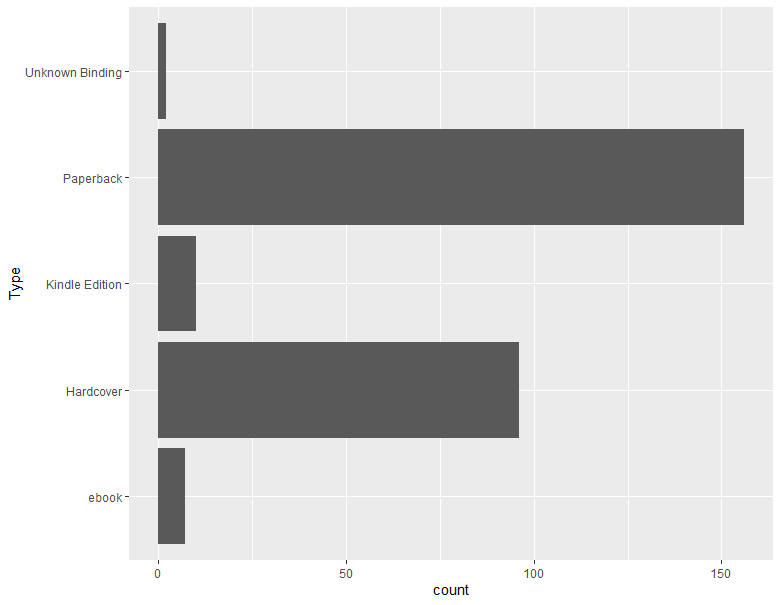
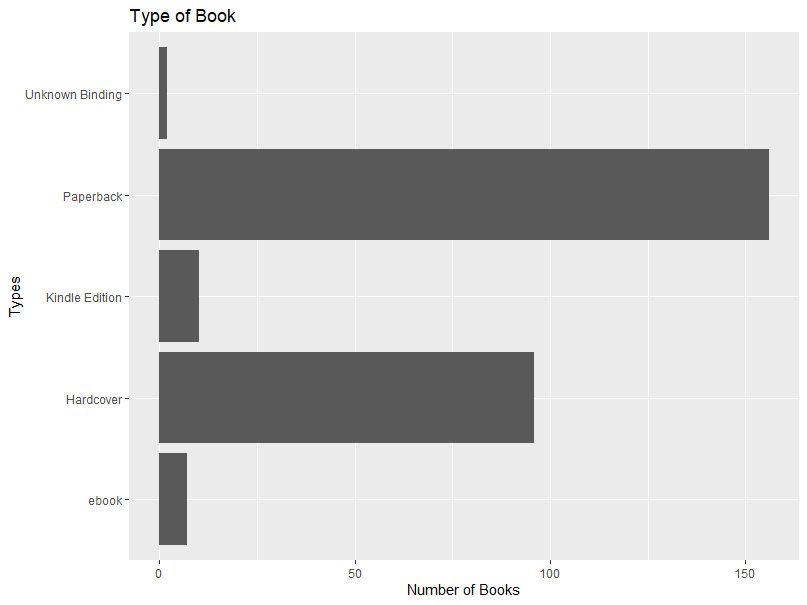
mid

diff --git a/HW04_63130500075.md b/HW04_63130500075.md
@@ -52,7 +52,7 @@ $ Price           <dbl> 9.323529, 11.000000, 11.267647, 12.873529, 13.164706, 14
 
 | No. | Column Name | Column Details | Data Type |
 | ---- | ---- | ---- | ---- |
-|1|Rating|Book popularity rating|numeric|
+|1|Rating|Rating of the book|numeric|
 |2|Reviews|Number of reviews on this book|numeric|
 |3|Book_title|Name of the book|character| 
 |4|Description|Description of the book|character| 
@@ -364,9 +364,9 @@ Explain
 ### 1.) Graph show type of book
 ```R
 # Bar Chart
-ggplot(Books,aes(x = Type)) + geom_bar() 
-type_plot <- ggplot(Books,aes(x = Type)) + geom_bar() + coord_flip()
-type_plot + ggtitle("Type of Book") + xlab("Types") + ylab("Number of Books")
+ggplot(Books,aes(x = Type)) + geom_bar()
+type_plot <- ggplot(Books,aes(x = Type)) + geom_bar() + coord_flip() + 
+             ggtitle("Type of Book") + xlab("Types") + ylab("Number of Books")
 type_plot
 ```
 Result:
@@ -376,19 +376,28 @@ Result:
 ### 2.) Graph show relation between price and rating
 ```R
 ## Scatter Plot
-Books %>% filter(Price < 250)
-Books %>% ggplot(aes(x = Rating,y = Price)) + geom_point()
 Books %>% filter(Price < 250) %>% ggplot(aes(x = Rating,y = Price)) + geom_point()
 ratingPrice_plot <- Books %>% filter(Price < 250) %>% ggplot(aes(x = Rating,y = Price)) + 
-                    geom_point(aes(color=Type)) + 
-                    ggtitle("Relation Between Price and Rating")
+                    geom_point(aes(color=Type)) + ggtitle("Relation Between Price and Rating")
 ratingPrice_plot
 ratingPrice_plot + geom_smooth()
-ratingPrice_plot + geom_smooth(method="lm")
+ratingPrice_plot + geom_smooth(method="lm") + theme_minimal() + 
+                   theme(panel.grid = element_line(linetype = "dashed"))
 ```
 Result:
 
 ![Graph 2](Graph2.png)
+
+### 2.) Graph show Rating of the book
+```R
+## Boxplot
+rating_plot <- Books %>% ggplot(aes(x = Number_Of_Pages)) + geom_boxplot() + 
+               ggtitle("Rating of the book") + theme_light() 
+rating_plot
+```
+Result:
+
+![Graph 3](Graph3.png)
 
 ----
 
